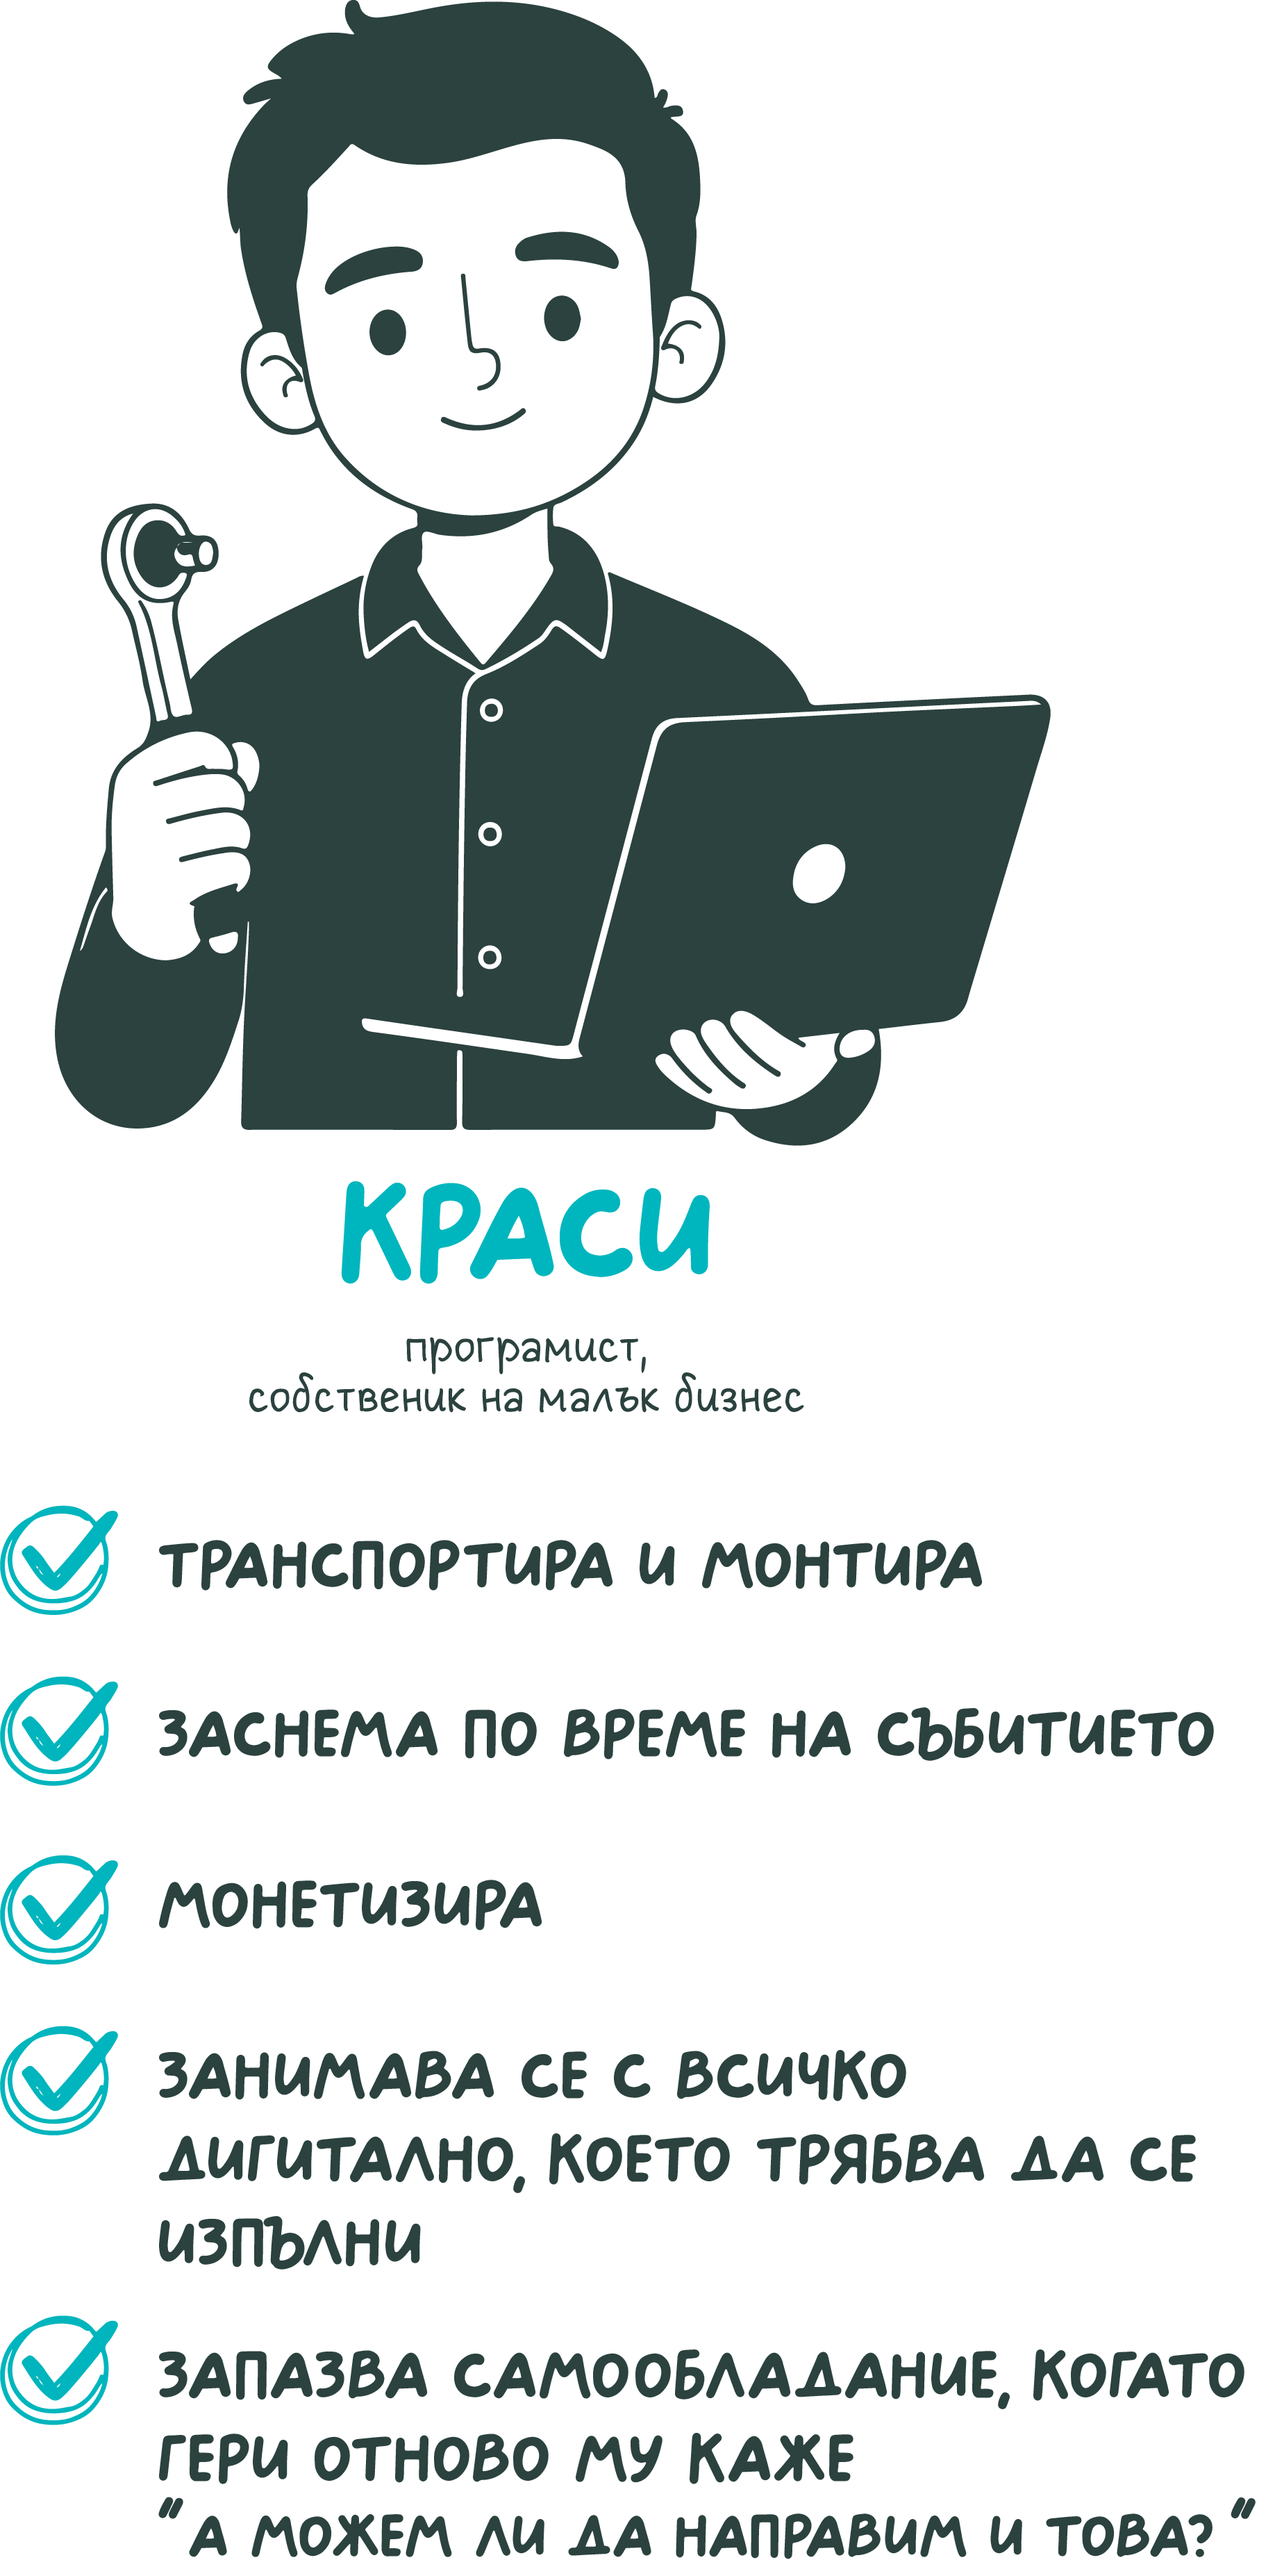
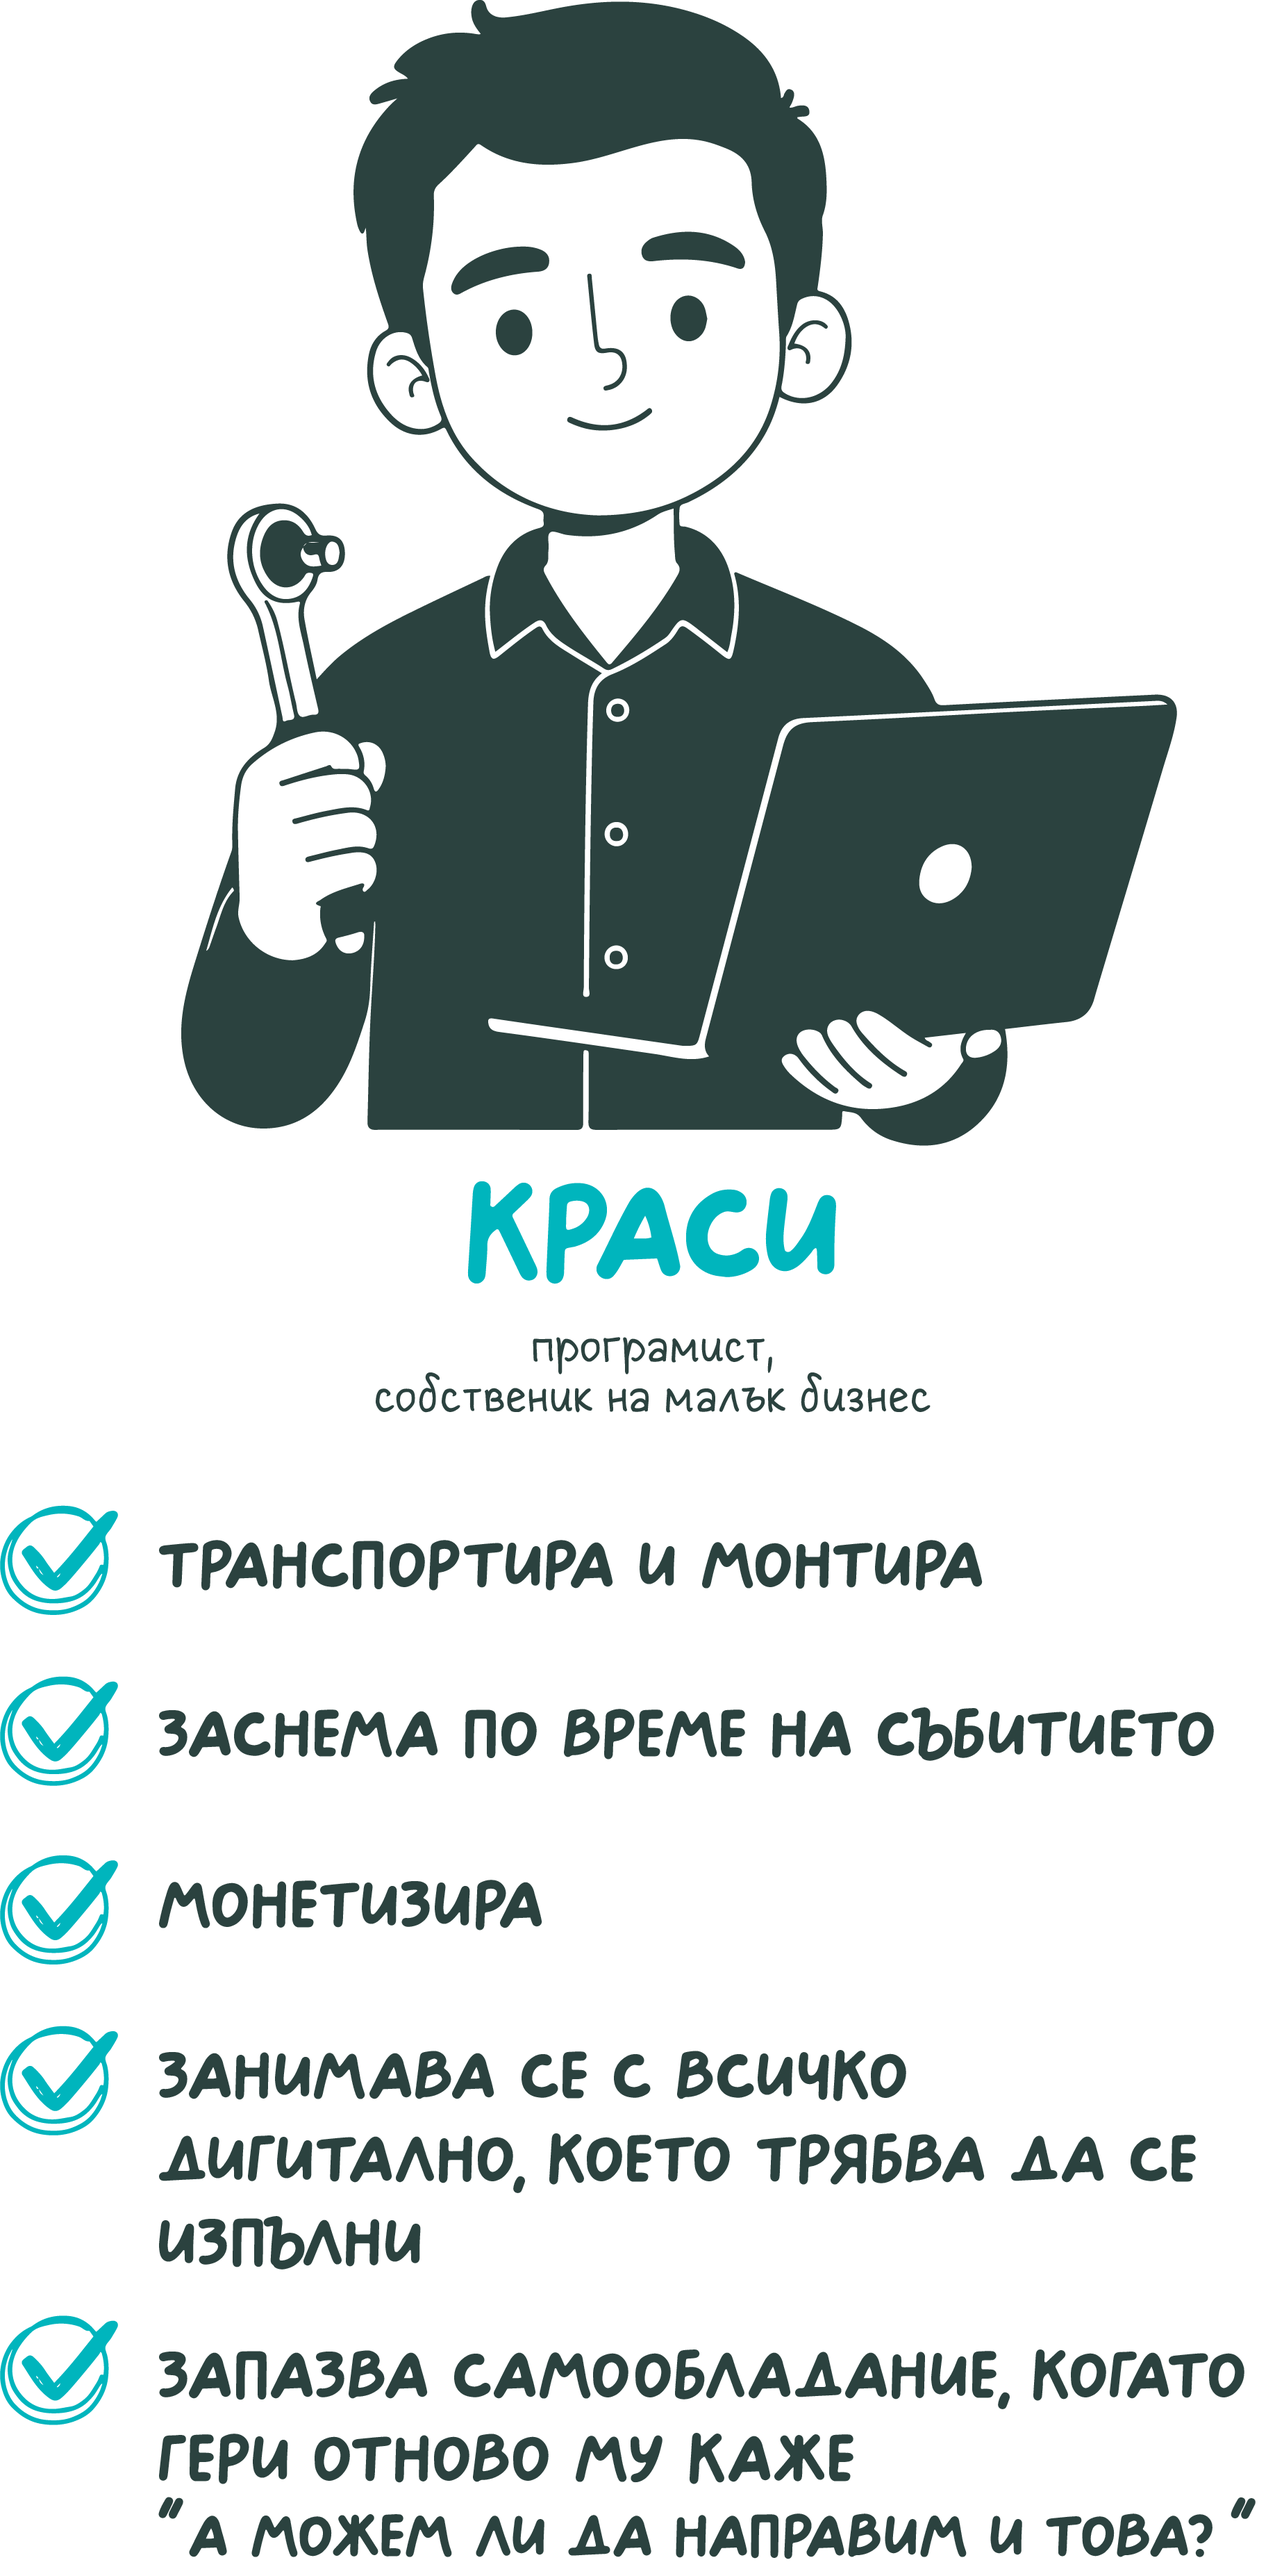
refactor: remove booking link from mobile navigation menu in header

diff --git a/src/app/about/page.tsx b/src/app/about/page.tsx
@@ -8,14 +8,14 @@ import { PageWrapper } from "@/components/layout/page-wrapper";
 export default function AboutPage() {
   return (
     <PageWrapper>
-      <div className="space-y-12 sm:space-y-16 pb-24 font-sans select-none bg-[#f9f6f0]">
-        {/* Section 1: Top Hero Photo */}
+      <div className="space-y-6 sm:space-y-12 pb-2 font-sans select-none bg-[#f9f6f0]">
+        {/* Section 1: Top Hero Photo (Static Exact Focal Framing for Mobile matching user screenshot) */}
         <section className="relative w-full h-[40vh] sm:h-[55vh] lg:h-[65vh] overflow-hidden">
           <Image
             src={encodeURI("/media/За Пощичка/Asset 61@2x.png")}
             alt="Пощичка машина на събитие"
             fill
-            className="object-cover object-center"
+            className="object-cover object-[47%_center] sm:object-center"
             priority
             unoptimized
           />
@@ -81,9 +81,9 @@ export default function AboutPage() {
           </div>
         </section>
 
-        {/* Section 4: What is Poshtichka & Booth Diagram (Responsive Asset 66@2x.png) */}
-        <section className="max-w-5xl mx-auto px-4 sm:px-8 py-4 flex justify-center items-center">
-          <div className="relative w-full max-w-4xl aspect-[4/3] sm:aspect-[16/10] md:aspect-[16/9]">
+        {/* Section 4: What is Poshtichka & Booth Diagram (Exact Native Aspect Ratio Asset 66@2x.png) */}
+        <section className="max-w-5xl mx-auto px-2 sm:px-8 py-0 sm:py-2 flex justify-center items-center -my-2 sm:my-0">
+          <div className="relative w-full max-w-4xl aspect-[3738/2212]">
             <Image
               src={encodeURI("/media/За Пощичка/Asset 66@2x.png")}
               alt="Какво е Пощичка - схема и въпроси"
@@ -106,7 +106,7 @@ export default function AboutPage() {
           />
         </section>
 
-        {/* Section 6: Who is Behind the Idea? (КОЙ СТОИ ЗАД ИДЕЯТА?) */}
+        {/* Section 6: Who is Behind the Idea? (КОЙ СТОИ ЗАД ИДЕЯТА?) - 100% Dead Centered Graphics */}
         <section className="max-w-6xl mx-auto px-4 sm:px-8 space-y-10 py-6">
           <div className="text-center max-w-3xl mx-auto space-y-2">
             <h2 className="font-salongbeach text-3xl sm:text-5xl font-bold uppercase tracking-wider text-[#00b4b6]">
@@ -117,15 +117,15 @@ export default function AboutPage() {
             </p>
           </div>
 
-          <div className="grid grid-cols-1 md:grid-cols-2 gap-8 md:gap-12 items-start justify-items-center">
+          <div className="grid grid-cols-1 md:grid-cols-2 gap-8 md:gap-12 items-start justify-items-center text-center">
             {/* Geri Column Graphic (Asset 68@2x.png) */}
-            <div className="w-full flex justify-center items-start">
-              <div className="relative w-full max-w-[340px] sm:max-w-[420px] h-[600px] sm:h-[780px] lg:h-[840px]">
+            <div className="w-full flex justify-center items-center text-center">
+              <div className="relative w-full max-w-[320px] sm:max-w-[380px] md:max-w-[420px] aspect-[1587/3390] mx-auto">
                 <Image
                   src={encodeURI("/media/За Пощичка/Asset 68@2x.png")}
                   alt="Гери - дизайнер"
                   fill
-                  className="object-contain object-top"
+                  className="object-contain object-center"
                   unoptimized
                   priority
                 />
@@ -133,13 +133,13 @@ export default function AboutPage() {
             </div>
 
             {/* Krasi Column Graphic (Asset 69@2x.png) */}
-            <div className="w-full flex justify-center items-start">
-              <div className="relative w-full max-w-[340px] sm:max-w-[420px] h-[600px] sm:h-[780px] lg:h-[840px]">
+            <div className="w-full flex justify-center items-center text-center">
+              <div className="relative w-full max-w-[320px] sm:max-w-[380px] md:max-w-[420px] aspect-[1836/3707] mx-auto">
                 <Image
                   src={encodeURI("/media/За Пощичка/Asset 69@2x.png")}
                   alt="Краси - програмист"
                   fill
-                  className="object-contain object-top"
+                  className="object-contain object-center"
                   unoptimized
                   priority
                 />
@@ -159,9 +159,9 @@ export default function AboutPage() {
           />
         </section>
 
-        {/* Section 8: Final Bottom CTA Banner (Matching exact user mockup with Asset 71 & Asset 72) */}
-        <section className="max-w-7xl mx-auto px-4 sm:px-8 py-10 sm:py-16">
-          <div className="flex flex-col md:flex-row items-center justify-between gap-6 sm:gap-10 text-center relative">
+        {/* Section 8: Final Bottom CTA Banner (Tight Normal Top Padding & Zero Empty Bottom Space) */}
+        <section className="max-w-7xl mx-auto px-4 sm:px-8 pt-6 sm:pt-10 pb-4 sm:pb-8">
+          <div className="flex flex-col md:flex-row items-center justify-between gap-8 sm:gap-10 md:gap-16 text-center relative">
             {/* Left Graphic: Asset 71@2x.png (Hands holding bird postcard) */}
             <div className="relative w-36 sm:w-48 md:w-60 h-36 sm:h-48 md:h-60 flex-shrink-0 mx-auto md:mx-0">
               <Image

diff --git a/src/components/home/header.tsx b/src/components/home/header.tsx
@@ -88,17 +88,6 @@ export const Header = () => {
                 </Link>
               ))}
             </div>
-
-            <div className="pt-2">
-              <Link
-                href="/booking"
-                onClick={() => setMobileMenuOpen(false)}
-                className="w-full py-3.5 rounded-full bg-[#00b4b6] text-white font-sans text-sm font-semibold uppercase tracking-wider hover:bg-[#008b8d] transition-all flex items-center justify-center space-x-2 shadow-sm"
-              >
-                <Calendar className="w-4 h-4" />
-                <span>Резервирай събитие</span>
-              </Link>
-            </div>
           </motion.div>
         )}
       </AnimatePresence>
